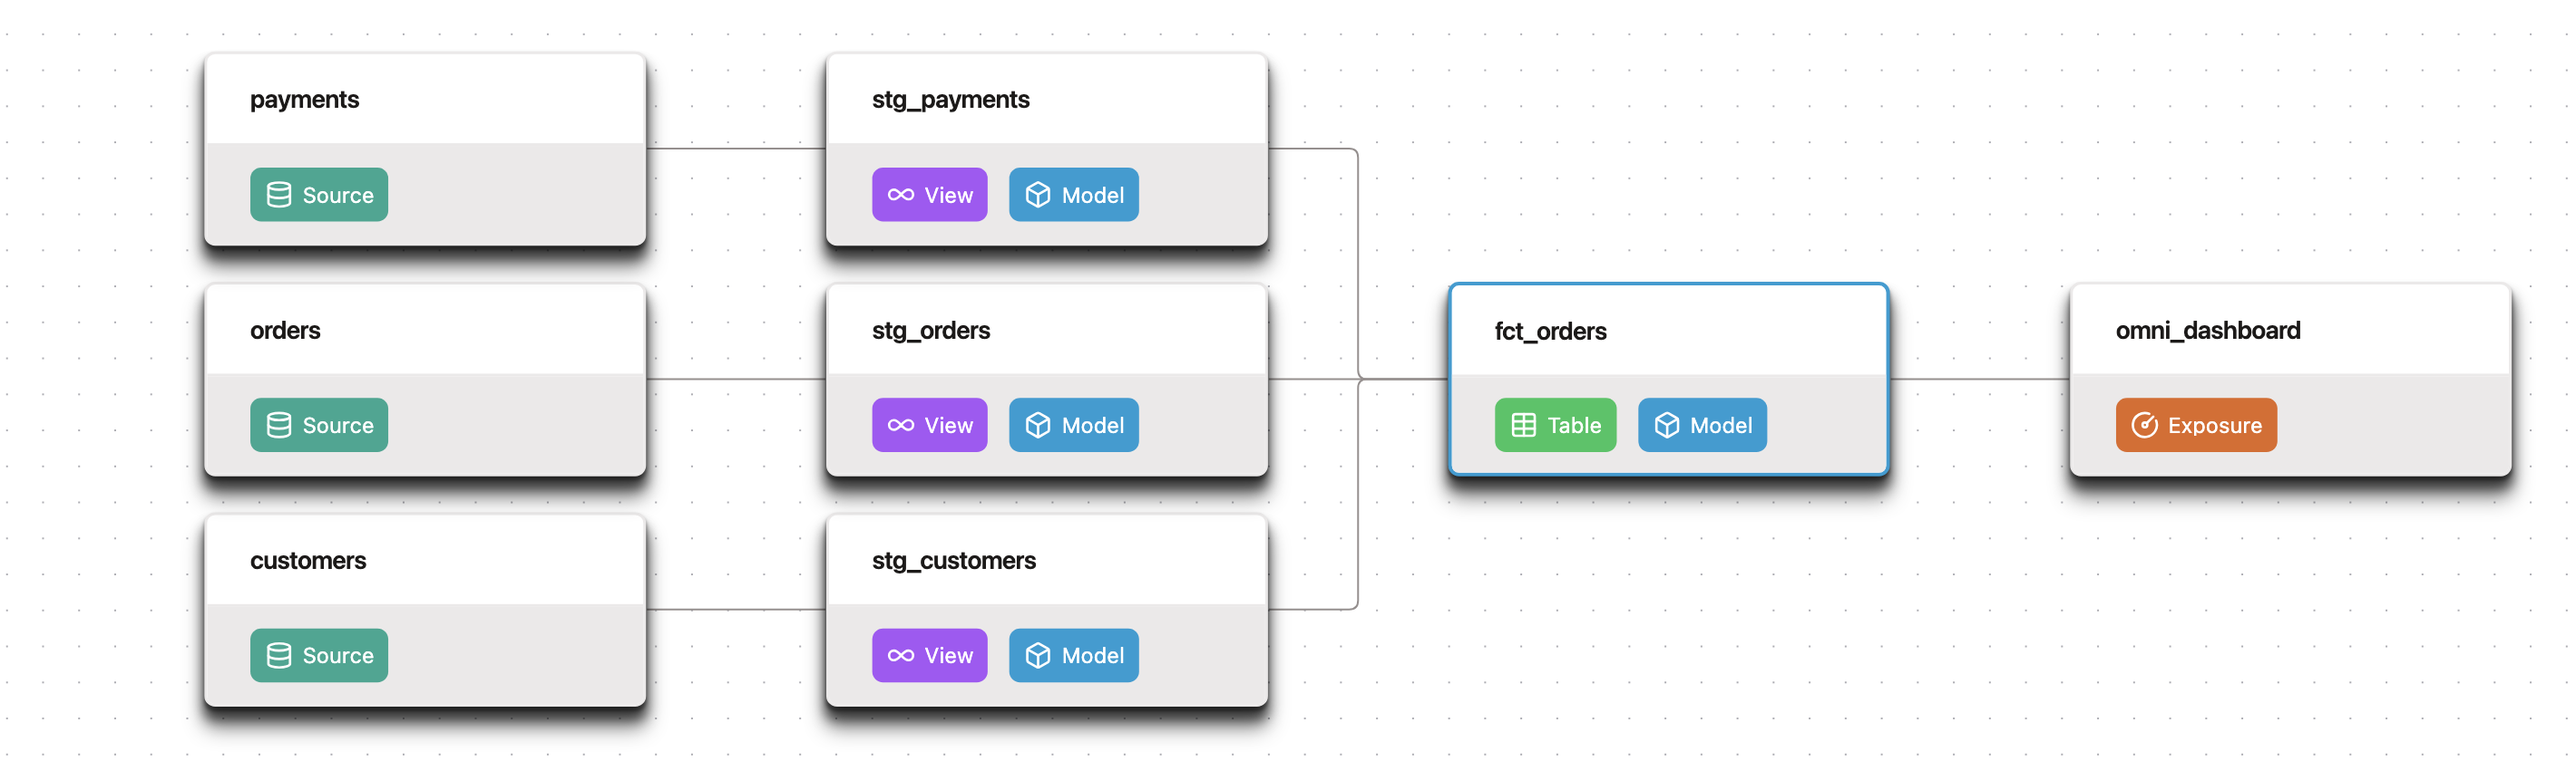
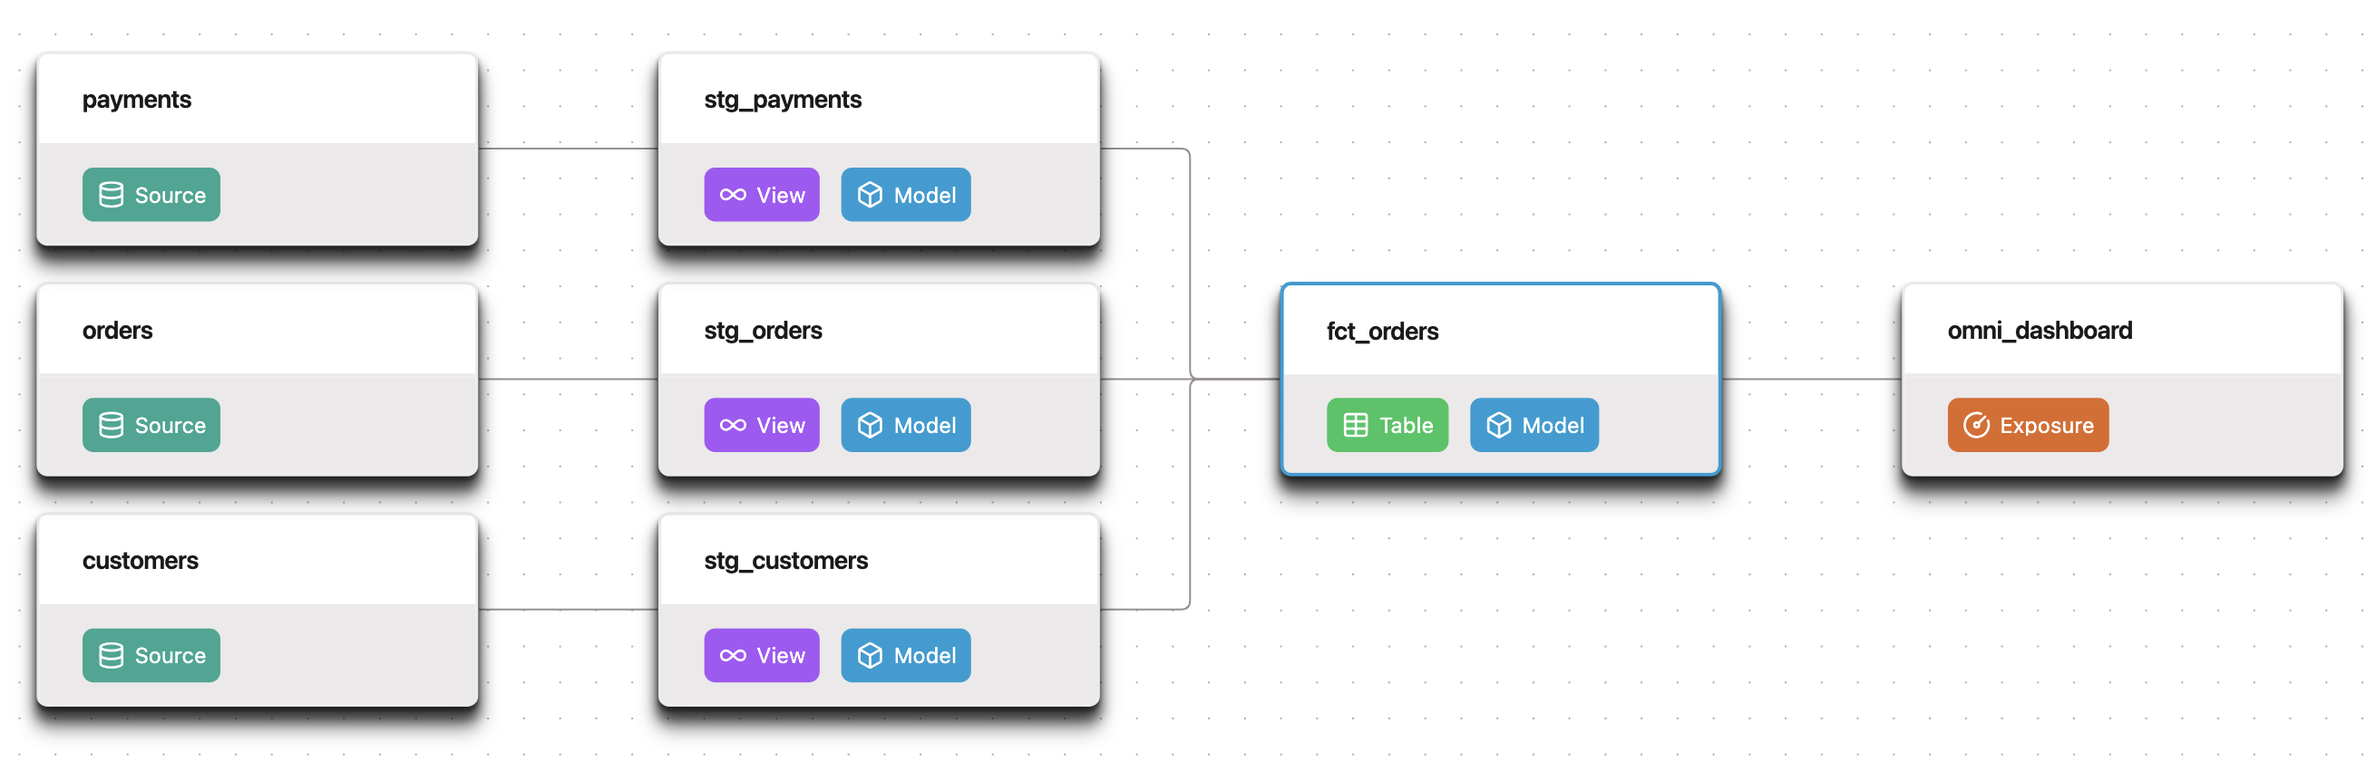
docs: tighten README images and fix CI badge

diff --git a/README.md b/README.md
@@ -1,9 +1,9 @@
 <p align="center">
-  <img width="750" alt="dbt logo" src="assets/dbt-logo.png" />
+  <img width="400" alt="dbt logo" src="assets/dbt-logo.png" />
 </p>
 <p align="center">
-  <a href="https://github.com/dbt-labs/dbt-core/actions/workflows/main.yml">
-    <img src="https://github.com/dbt-labs/dbt-core/actions/workflows/main.yml/badge.svg?event=push" alt="CI Badge"/>
+  <a href="https://github.com/dbt-labs/dbt/actions/workflows/ci.yml?query=branch%3Amain">
+    <img src="https://github.com/dbt-labs/dbt/actions/workflows/ci.yml/badge.svg?branch=main&amp;event=push" alt="dbt upstream CI"/>
   </a>
 </p>
 
